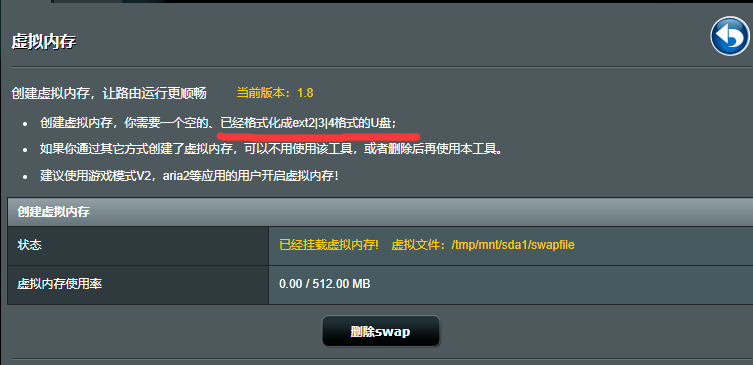
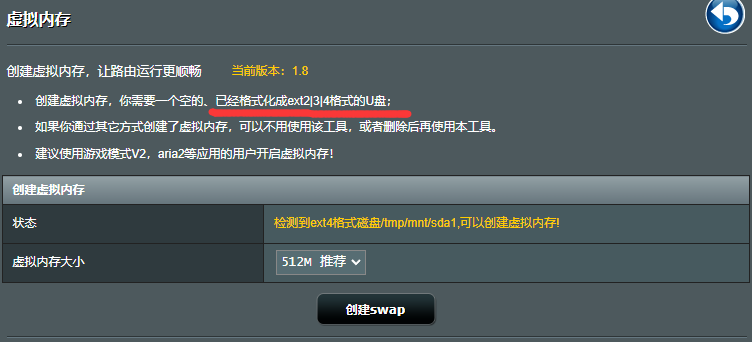
Site updated: 2022-07-17 15:18:31

diff --git a/2022/07/17/R7000梅林固件设置虚拟内存/index.html b/2022/07/17/R7000梅林固件设置虚拟内存/index.html
@@ -16,22 +16,22 @@
   <meta name="author" content="xianjianxsc">
   <meta name="keywords" content="">
   
-    <meta name="description" content="硬件 :  刷了梅林380.70_0-X7.9.1固件的 网件R7000路由器一台        一个 8G 的U盘  首先使用 DiskGenius 把U盘格式化为ext4 格式。         格式化好U盘之后，把U盘插到路由器上【建议插到USB2.0口上】，然后到软件中心安装虚拟内存插件   进入虚拟内存插件后可以看到状态，选择虚拟内存大小，建议512M或1G，最后创建虚拟内存等待完成即可">
+    <meta name="description" content="硬件准备 :   刷了梅林380.70_0-X7.9.1固件的 网件R7000路由器一台            一个 8G 的U盘  首先使用 DiskGenius 把U盘格式化为ext4 格式。         格式化好U盘之后，把U盘插到路由器上【建议插到USB2.0口上】，然后到软件中心安装虚拟内存插件   进入虚拟内存插件后可以看到状态，选择虚拟内存大小，建议512M或1G :   最后创">
 <meta property="og:type" content="article">
 <meta property="og:title" content="R7000梅林固件设置虚拟内存">
 <meta property="og:url" content="http://example.com/2022/07/17/R7000%E6%A2%85%E6%9E%97%E5%9B%BA%E4%BB%B6%E8%AE%BE%E7%BD%AE%E8%99%9A%E6%8B%9F%E5%86%85%E5%AD%98/index.html">
 <meta property="og:site_name" content="黑暗中的矩阵">
-<meta property="og:description" content="硬件 :  刷了梅林380.70_0-X7.9.1固件的 网件R7000路由器一台        一个 8G 的U盘  首先使用 DiskGenius 把U盘格式化为ext4 格式。         格式化好U盘之后，把U盘插到路由器上【建议插到USB2.0口上】，然后到软件中心安装虚拟内存插件   进入虚拟内存插件后可以看到状态，选择虚拟内存大小，建议512M或1G，最后创建虚拟内存等待完成即可">
+<meta property="og:description" content="硬件准备 :   刷了梅林380.70_0-X7.9.1固件的 网件R7000路由器一台            一个 8G 的U盘  首先使用 DiskGenius 把U盘格式化为ext4 格式。         格式化好U盘之后，把U盘插到路由器上【建议插到USB2.0口上】，然后到软件中心安装虚拟内存插件   进入虚拟内存插件后可以看到状态，选择虚拟内存大小，建议512M或1G :   最后创">
 <meta property="og:locale" content="zh_CN">
 <meta property="og:image" content="http://example.com/2022/07/17/R7000%E6%A2%85%E6%9E%97%E5%9B%BA%E4%BB%B6%E8%AE%BE%E7%BD%AE%E8%99%9A%E6%8B%9F%E5%86%85%E5%AD%98/001.png">
 <meta property="og:image" content="http://example.com/2022/07/17/R7000%E6%A2%85%E6%9E%97%E5%9B%BA%E4%BB%B6%E8%AE%BE%E7%BD%AE%E8%99%9A%E6%8B%9F%E5%86%85%E5%AD%98/002.png">
-<meta property="og:image" content="http://example.com/2022/07/17/R7000%E6%A2%85%E6%9E%97%E5%9B%BA%E4%BB%B6%E8%AE%BE%E7%BD%AE%E8%99%9A%E6%8B%9F%E5%86%85%E5%AD%98/003.png">
 <meta property="og:image" content="http://example.com/2022/07/17/R7000%E6%A2%85%E6%9E%97%E5%9B%BA%E4%BB%B6%E8%AE%BE%E7%BD%AE%E8%99%9A%E6%8B%9F%E5%86%85%E5%AD%98/004.png">
 <meta property="og:image" content="http://example.com/2022/07/17/R7000%E6%A2%85%E6%9E%97%E5%9B%BA%E4%BB%B6%E8%AE%BE%E7%BD%AE%E8%99%9A%E6%8B%9F%E5%86%85%E5%AD%98/005.png">
+<meta property="og:image" content="http://example.com/2022/07/17/R7000%E6%A2%85%E6%9E%97%E5%9B%BA%E4%BB%B6%E8%AE%BE%E7%BD%AE%E8%99%9A%E6%8B%9F%E5%86%85%E5%AD%98/005-1.png">
+<meta property="og:image" content="http://example.com/2022/07/17/R7000%E6%A2%85%E6%9E%97%E5%9B%BA%E4%BB%B6%E8%AE%BE%E7%BD%AE%E8%99%9A%E6%8B%9F%E5%86%85%E5%AD%98/006-1.png">
 <meta property="og:image" content="http://example.com/2022/07/17/R7000%E6%A2%85%E6%9E%97%E5%9B%BA%E4%BB%B6%E8%AE%BE%E7%BD%AE%E8%99%9A%E6%8B%9F%E5%86%85%E5%AD%98/006.png">
-<meta property="og:image" content="http://example.com/2022/07/17/R7000%E6%A2%85%E6%9E%97%E5%9B%BA%E4%BB%B6%E8%AE%BE%E7%BD%AE%E8%99%9A%E6%8B%9F%E5%86%85%E5%AD%98/007.png">
 <meta property="article:published_time" content="2022-07-17T06:58:35.000Z">
-<meta property="article:modified_time" content="2022-07-17T09:34:02.288Z">
+<meta property="article:modified_time" content="2022-07-17T12:18:15.268Z">
 <meta property="article:author" content="xianjianxsc">
 <meta property="article:tag" content="原创">
 <meta name="twitter:card" content="summary_large_image">
@@ -306,27 +306,31 @@
             
               <div class="markdown-body">
                 
-                <p>硬件 :  刷了梅林380.70_0-X7.9.1固件的 网件R7000路由器一台<br>        一个 8G 的U盘 </p>
+                <p>硬件准备 :   刷了梅林380.70_0-X7.9.1固件的 网件R7000路由器一台<br>            一个 8G 的U盘 </p>
 <p>首先使用 DiskGenius 把U盘格式化为ext4 格式。</p>
 <img src="/2022/07/17/R7000%E6%A2%85%E6%9E%97%E5%9B%BA%E4%BB%B6%E8%AE%BE%E7%BD%AE%E8%99%9A%E6%8B%9F%E5%86%85%E5%AD%98/001.png" srcset="/img/loading.gif" lazyload class="" title="图片引用方法一">
 
 <img src="/2022/07/17/R7000%E6%A2%85%E6%9E%97%E5%9B%BA%E4%BB%B6%E8%AE%BE%E7%BD%AE%E8%99%9A%E6%8B%9F%E5%86%85%E5%AD%98/002.png" srcset="/img/loading.gif" lazyload class="" title="图片引用方法一">
 
-<img src="/2022/07/17/R7000%E6%A2%85%E6%9E%97%E5%9B%BA%E4%BB%B6%E8%AE%BE%E7%BD%AE%E8%99%9A%E6%8B%9F%E5%86%85%E5%AD%98/003.png" srcset="/img/loading.gif" lazyload class="" title="图片引用方法一">
+
 
 
 
 <p>格式化好U盘之后，把U盘插到路由器上【建议插到USB2.0口上】，然后到软件中心安装虚拟内存插件</p>
 <img src="/2022/07/17/R7000%E6%A2%85%E6%9E%97%E5%9B%BA%E4%BB%B6%E8%AE%BE%E7%BD%AE%E8%99%9A%E6%8B%9F%E5%86%85%E5%AD%98/004.png" srcset="/img/loading.gif" lazyload class="" title="图片引用方法一">
 
-<p>进入虚拟内存插件后可以看到状态，选择虚拟内存大小，建议512M或1G，最后创建虚拟内存等待完成即可</p>
+<p>进入虚拟内存插件后可以看到状态，选择虚拟内存大小，建议512M或1G :</p>
 <img src="/2022/07/17/R7000%E6%A2%85%E6%9E%97%E5%9B%BA%E4%BB%B6%E8%AE%BE%E7%BD%AE%E8%99%9A%E6%8B%9F%E5%86%85%E5%AD%98/005.png" srcset="/img/loading.gif" lazyload class="" title="图片引用方法一">
 
+<p>最后创建虚拟内存等待完成即可 </p>
+<img src="/2022/07/17/R7000%E6%A2%85%E6%9E%97%E5%9B%BA%E4%BB%B6%E8%AE%BE%E7%BD%AE%E8%99%9A%E6%8B%9F%E5%86%85%E5%AD%98/005-1.png" srcset="/img/loading.gif" lazyload class="" title="图片引用方法一">
 
-<p>注意，刚刚创建完虚拟内存之后 ，立刻查看虚拟内存大小，不管是在命令行还是在 路由器界面都无法看到刚才创建的虚拟内存，需要等待几分钟， 在命令行时刻观察虚拟内存大小，等这个数值涨到指定的大小之后虚拟内存才可以使用。</p>
+
+<p>注意，如果你在刚创建完虚拟内存之后就查看虚拟内存大小，不管是在命令行 还是在路由器界面看到的虚拟内大小都是0 ，需要等待几分钟， 在命令行时刻观察虚拟内存大小，等这个数值涨到指定的大小之后虚拟内存才可以使用。</p>
+<img src="/2022/07/17/R7000%E6%A2%85%E6%9E%97%E5%9B%BA%E4%BB%B6%E8%AE%BE%E7%BD%AE%E8%99%9A%E6%8B%9F%E5%86%85%E5%AD%98/006-1.png" srcset="/img/loading.gif" lazyload class="" title="图片引用方法一">
+
 <img src="/2022/07/17/R7000%E6%A2%85%E6%9E%97%E5%9B%BA%E4%BB%B6%E8%AE%BE%E7%BD%AE%E8%99%9A%E6%8B%9F%E5%86%85%E5%AD%98/006.png" srcset="/img/loading.gif" lazyload class="" title="图片引用方法一">
 
-<img src="/2022/07/17/R7000%E6%A2%85%E6%9E%97%E5%9B%BA%E4%BB%B6%E8%AE%BE%E7%BD%AE%E8%99%9A%E6%8B%9F%E5%86%85%E5%AD%98/007.png" srcset="/img/loading.gif" lazyload class="" title="图片引用方法一">
 
                 
               </div>

diff --git a/index.html b/index.html
@@ -250,7 +250,7 @@
       
       <a class="index-excerpt index-excerpt__noimg" href="/2022/07/17/R7000%E6%A2%85%E6%9E%97%E5%9B%BA%E4%BB%B6%E8%AE%BE%E7%BD%AE%E8%99%9A%E6%8B%9F%E5%86%85%E5%AD%98/" target="_self">
         <div>
-          硬件 :  刷了梅林380.70_0-X7.9.1固件的 网件R7000路由器一台        一个 8G 的U盘  首先使用 DiskGenius 把U盘格式化为ext4 格式。         格式化好U盘之后，把U盘插到路由器上【建议插到USB2.0口上】，然后到软件中心安装虚拟内存插件   进入虚拟内存插件后可以看到状态，选择虚拟内存大小，建议512M或1G，最后创建虚拟内存等待完成即可
+          硬件准备 :   刷了梅林380.70_0-X7.9.1固件的 网件R7000路由器一台            一个 8G 的U盘  首先使用 DiskGenius 把U盘格式化为ext4 格式。         格式化好U盘之后，把U盘插到路由器上【建议插到USB2.0口上】，然后到软件中心安装虚拟内存插件   进入虚拟内存插件后可以看到状态，选择虚拟内存大小，建议512M或1G :   最后创
         </div>
       </a>
 
